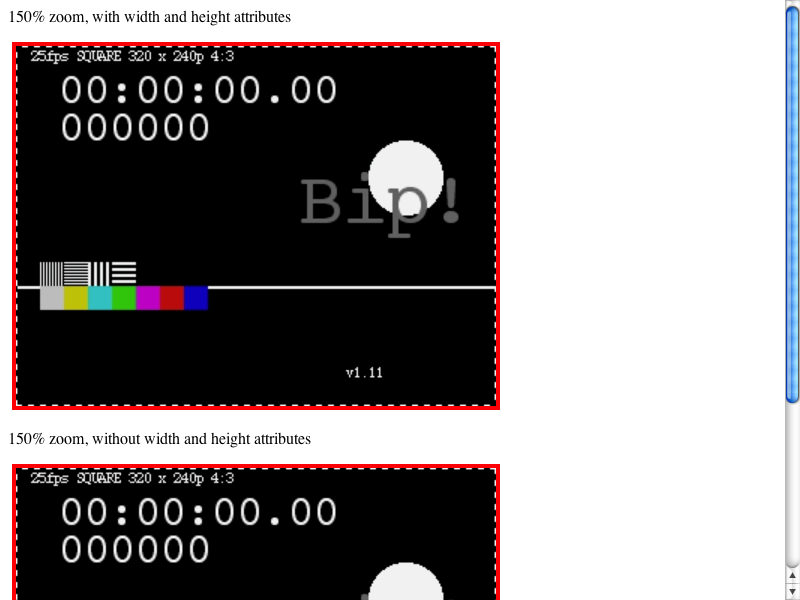
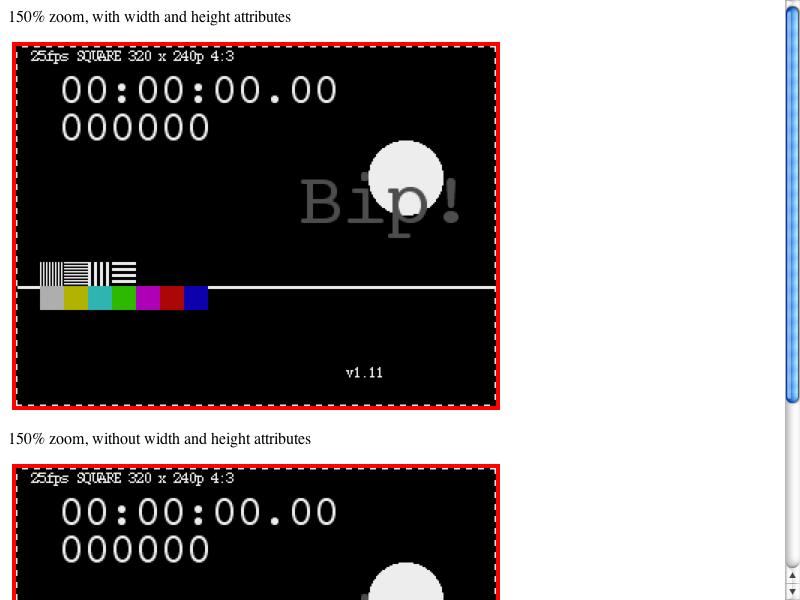
2009-12-12  Eric Carlson  <eric.carlson@apple.com>
Reviewed by Dan Bernstein.

        <rdar://problem/6293979> Adopt shared control drawing for <video> controls on Leopard and Windows

        Use MediaControllerThemeQuickTime on Leopard.

        * rendering/RenderThemeMac.mm:
        (WebCore::mediaControllerTheme):

2009-12-12  Eric Carlson  <eric.carlson@apple.com>

        Reviewed by Dan Bernstein.

        <rdar://problem/6293979> Adopt shared control drawing for <video> controls on Leopard and Windows

        Regenerate layout and pixel test results for the new UI.

        * platform/mac-leopard/Skipped:
        * platform/mac-leopard/media/controls-after-reload-expected.txt:
        * platform/mac-leopard/media/controls-drag-timebar-expected.txt:
        * platform/mac-leopard/media/controls-strict-expected.txt:
        * platform/mac-leopard/media/controls-styling-expected.txt:
        * platform/mac-leopard/media/video-controls-rendering-expected.checksum:
        * platform/mac-leopard/media/video-controls-rendering-expected.png:
        * platform/mac-leopard/media/video-controls-rendering-expected.txt:
        * platform/mac-leopard/media/video-display-toggle-expected.checksum:
        * platform/mac-leopard/media/video-display-toggle-expected.png:
        * platform/mac-leopard/media/video-display-toggle-expected.txt:
        * platform/mac-leopard/media/video-no-audio-expected.txt:
        * platform/mac-leopard/media/video-zoom-controls-expected.checksum:
[…]

diff --git a/WebCore/rendering/RenderThemeMac.mm b/WebCore/rendering/RenderThemeMac.mm
@@ -1434,13 +1434,10 @@ static int mediaControllerTheme()
 
     controllerTheme = MediaControllerThemeClassic;
 
-    if (!wkMediaControllerThemeAvailable(MediaControllerThemeQuickTime))
-        return controllerTheme;
-
     Boolean validKey;
     Boolean useQTMediaUIPref = CFPreferencesGetAppBooleanValue(CFSTR("UseQuickTimeMediaUI"), CFSTR("com.apple.WebCore"), &validKey);
 
-#if !defined(BUILDING_ON_TIGER) && !defined(BUILDING_ON_LEOPARD)
+#if !defined(BUILDING_ON_TIGER)
     if (validKey && !useQTMediaUIPref)
         return controllerTheme;
 #else
